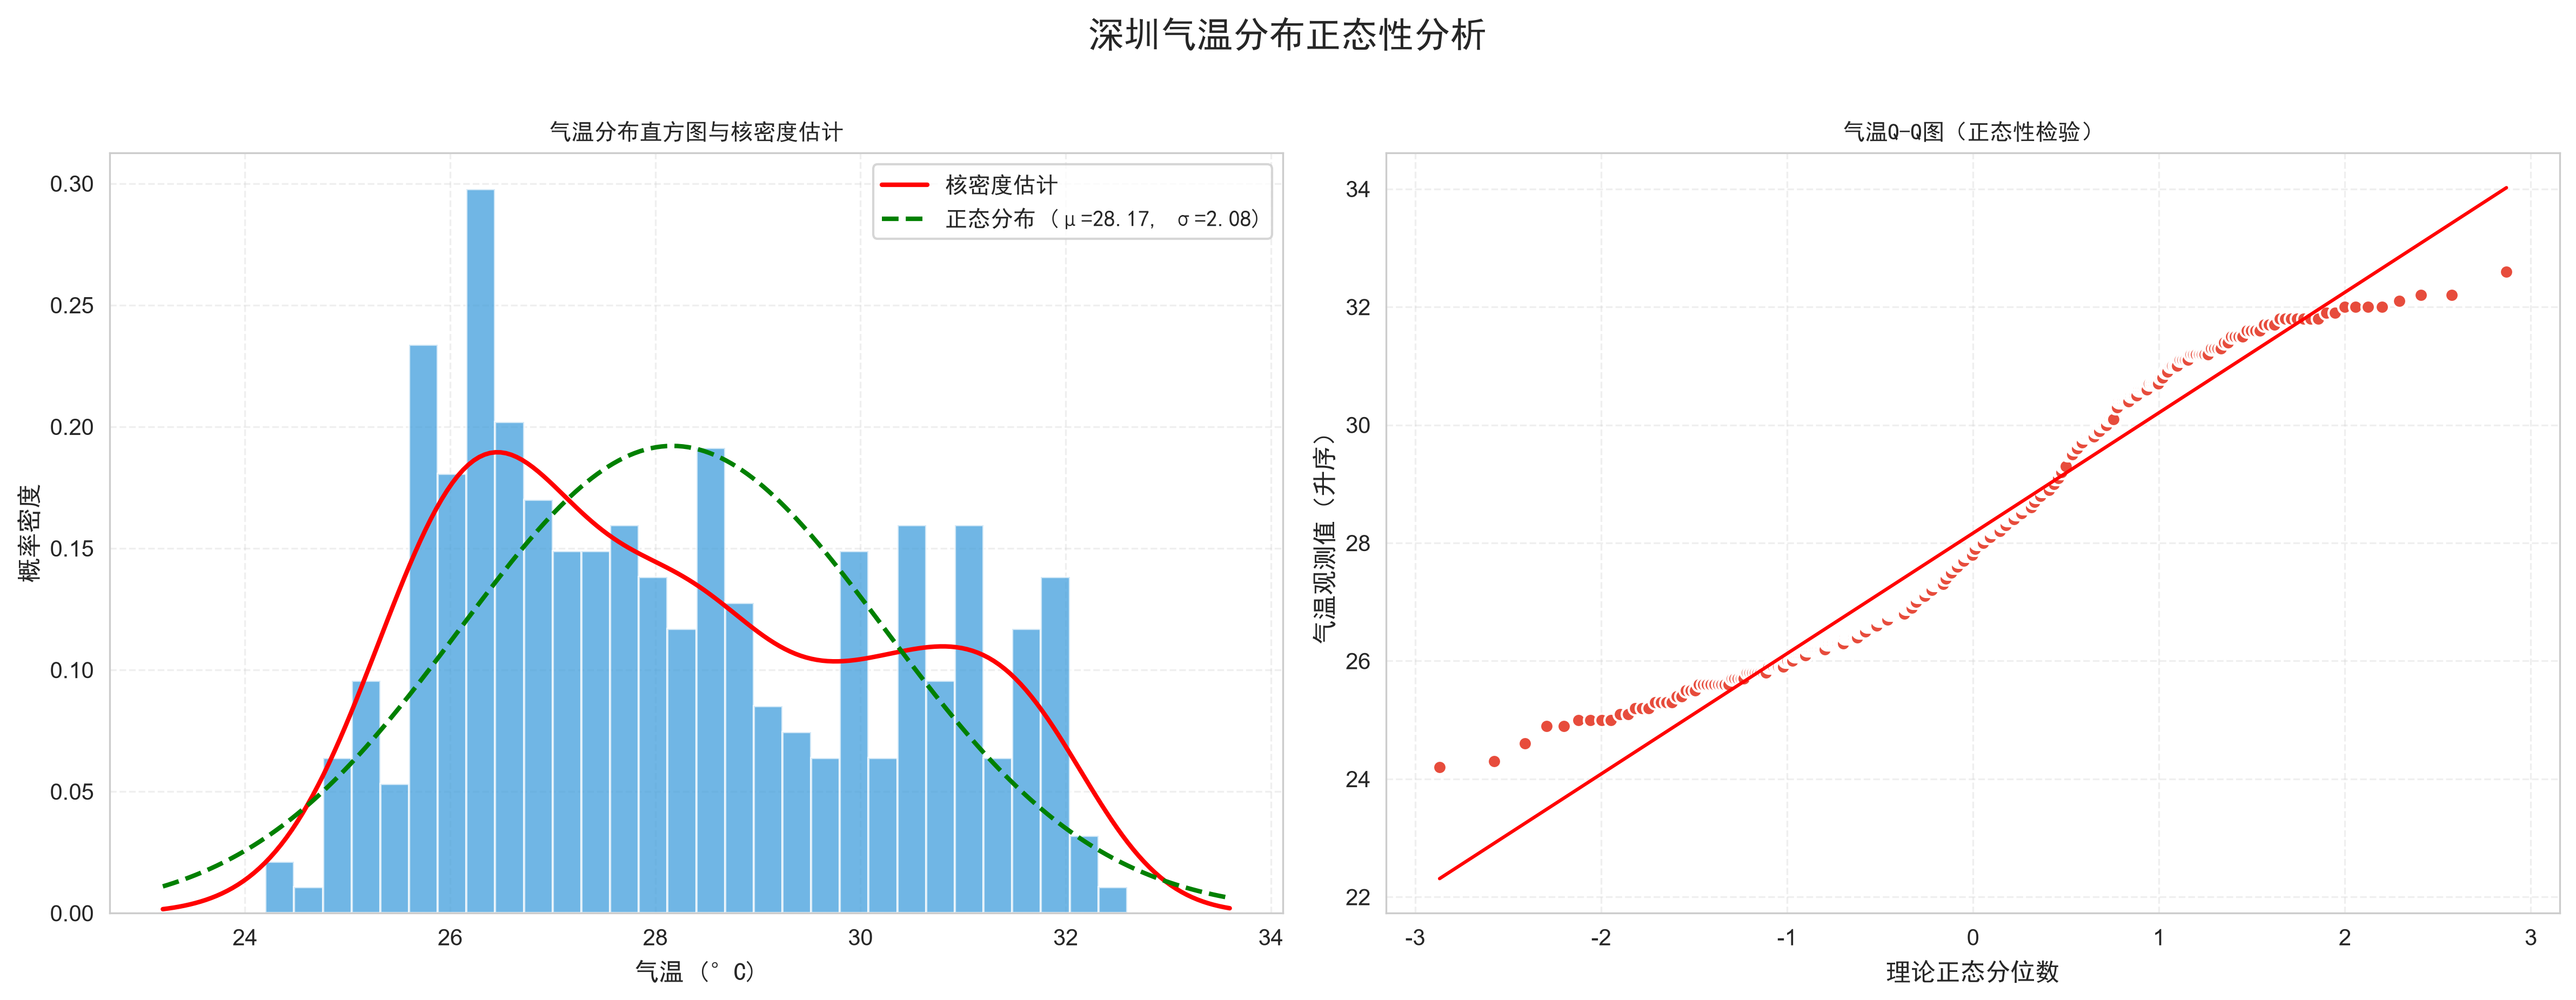
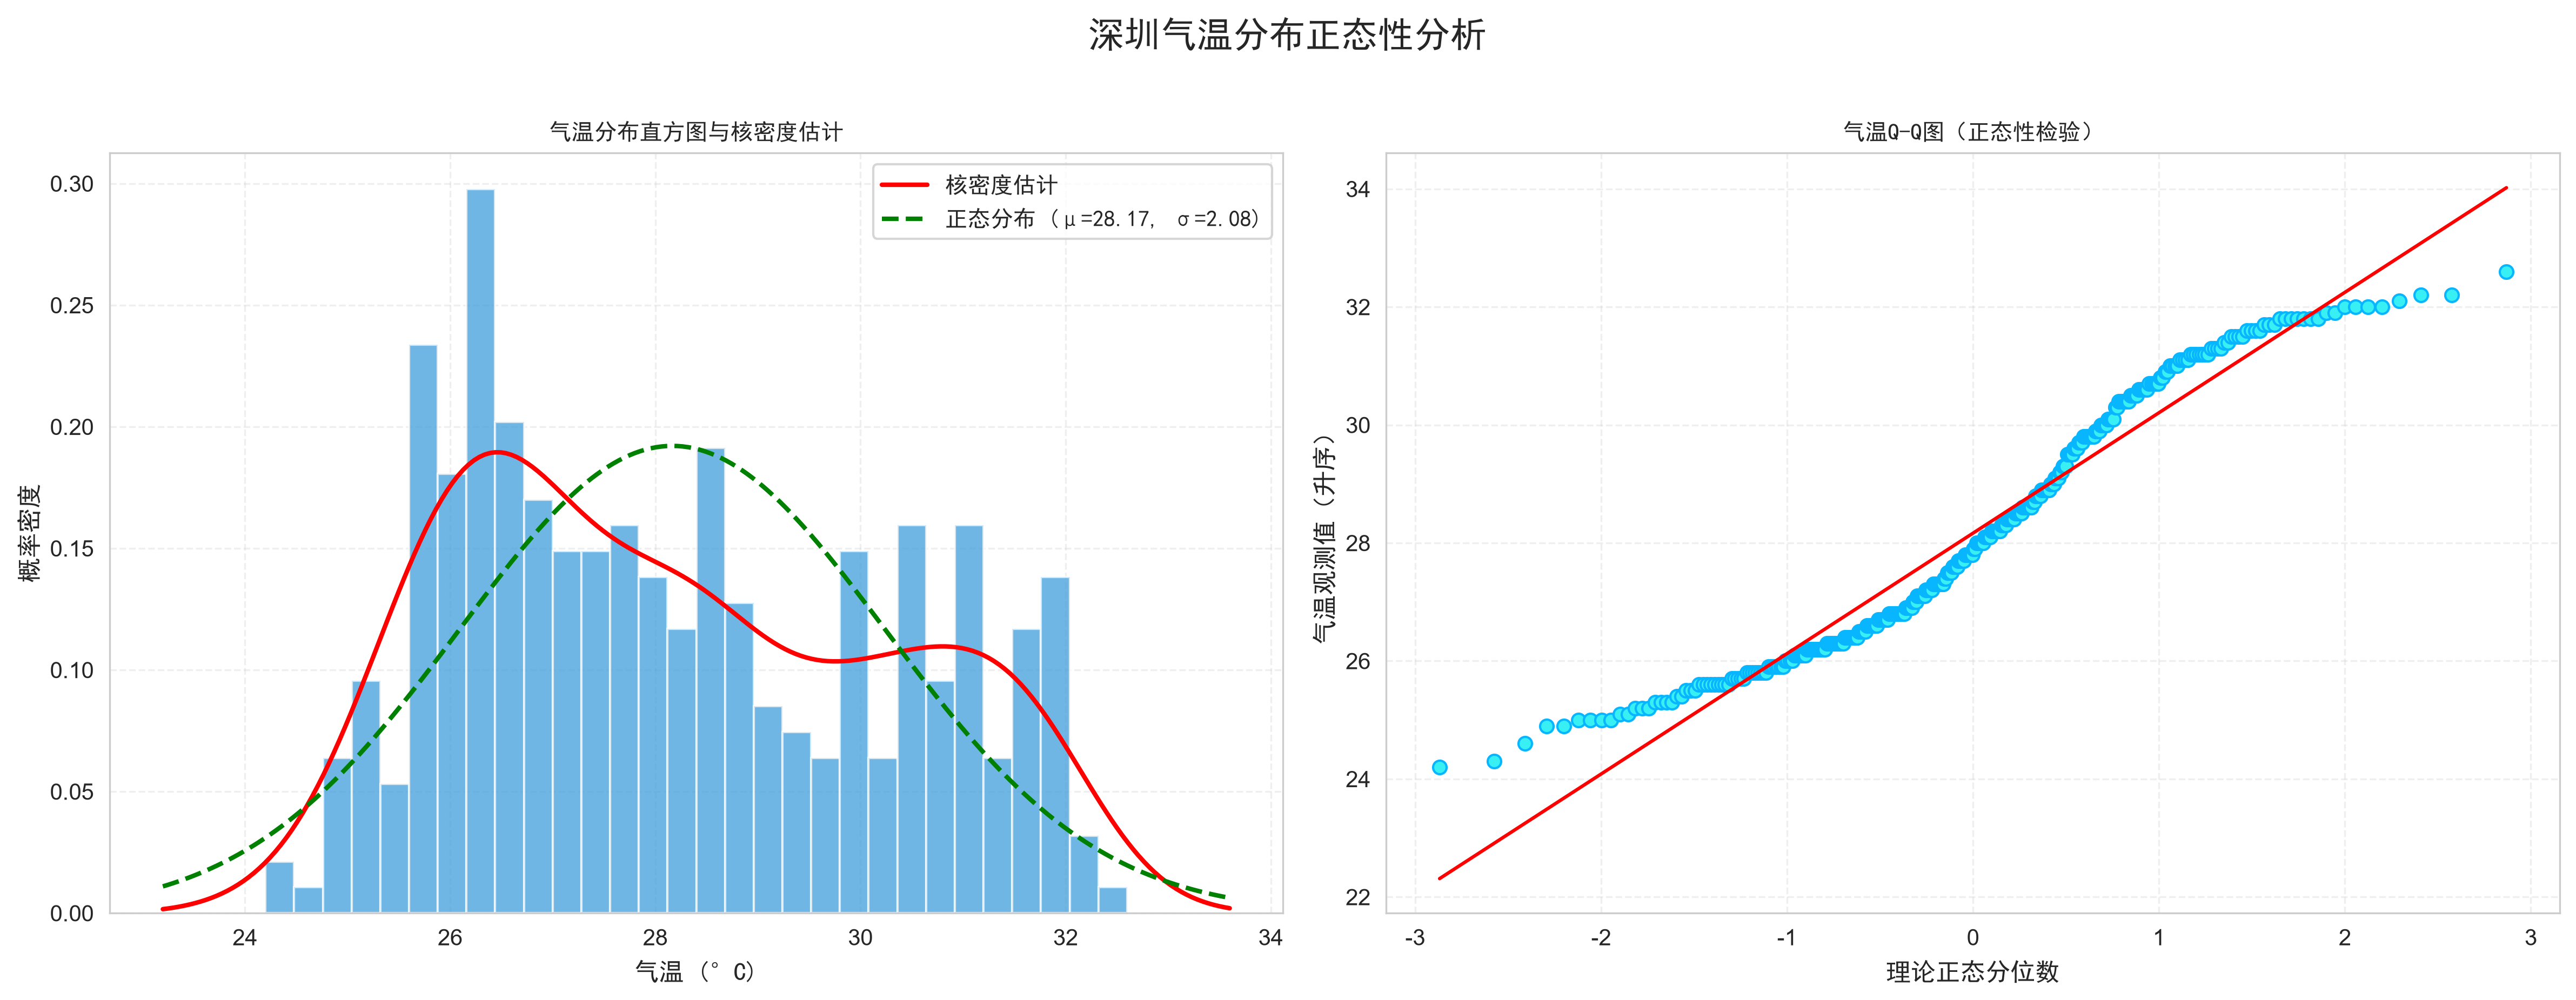
v1.0.0

diff --git a/visualize/cpk_analysis.py b/visualize/cpk_analysis.py
@@ -42,7 +42,6 @@ class CPKAnalyzer:
         # 创建图表目录
         os.makedirs(CHARTS_DIR, exist_ok=True)
         
-        # 设置风格
         sns.set_style("whitegrid")
         
         # CPK结果
@@ -80,13 +79,12 @@ class CPKAnalyzer:
         Returns:
             tuple: (cpk, cp, cpu, cpl, mean, std)
         """
-        mean = np.mean(data)
+        mean = np.mean(data) #numpy输出完整公式
         std = np.std(data, ddof=1)  # 样本标准差
         
-        # 计算CP
+        # 计算CP、CPU和CPL
         cp = (usl - lsl) / (6 * std)
         
-        # 计算CPU和CPL
         cpu = (usl - mean) / (3 * std)
         cpl = (mean - lsl) / (3 * std)
         
@@ -281,7 +279,6 @@ class CPKAnalyzer:
         print("=" * 60)
         
         return cpk_chart, self.cpk_results
-
 
 if __name__ == "__main__":
     analyzer = CPKAnalyzer()

diff --git a/visualize/plot_box.py b/visualize/plot_box.py
@@ -75,7 +75,7 @@ class BoxPlotter:
         data_by_day = [df[df["日期"] == day]["气温"].values for day in days]
         x_labels = [str(d) for d in days]
 
-        # 移除labels参数，只保留合法入参
+        # 移除labels参数
         bp = ax.boxplot(data_by_day, patch_artist=True)
         # 手动设置横轴刻度与文字
         ax.set_xticks(range(1, len(x_labels)+1))
@@ -144,8 +144,8 @@ class BoxPlotter:
         ax2.set_title('气温Q-Q图（正态性检验）', fontsize=14, fontweight='bold', fontproperties=my_font)
         ax2.set_xlabel('理论正态分位数', fontsize=11, fontproperties=my_font)
         ax2.set_ylabel('气温观测值（升序）', fontsize=11, fontproperties=my_font)
-        ax2.get_lines()[0].set_markerfacecolor('#e74c3c')
-        ax2.get_lines()[0].set_markeredgecolor('white')
+        ax2.get_lines()[0].set_markerfacecolor("#38f0f3")
+        ax2.get_lines()[0].set_markeredgecolor("#08b5ff")
         ax2.grid(True, alpha=0.3, linestyle='--')
         
         plt.suptitle('深圳气温分布正态性分析', fontsize=16, fontweight='bold', y=1.02, fontproperties=my_font)

diff --git a/visualize/test_font.py b/visualize/test_font.py
@@ -1,7 +1,7 @@
 import matplotlib.pyplot as plt
 import matplotlib.font_manager as fm
 
-# 强制只使用黑体
+# 强制使用黑体
 plt.rcParams["font.sans-serif"] = ["SimHei"]
 plt.rcParams["axes.unicode_minus"] = False
 
@@ -11,7 +11,7 @@ print("全部字体列表：")
 print(all_fonts)
 print("\n是否包含SimHei：", "SimHei" in all_fonts)
 
-# 画一张测试图验证中文
+# 测试图验证中文文字是否乱码
 fig, ax = plt.subplots()
 ax.set_title("中文测试：气温与体感温度散点图")
 ax.set_xlabel("横轴：气温(℃)")

diff --git a/visualize/plot_line_scatter.py b/visualize/plot_line_scatter.py
@@ -25,7 +25,6 @@ CHARTS_DIR = "../report/charts"
 CLEAN_DATA_FILENAME = "shenzhen_weather_clean.csv"
 DAILY_STATS_FILENAME = "shenzhen_weather_daily.csv"
 
-
 class LineScatterPlotter:
     """折线图与散点图绘制类"""
     
@@ -34,7 +33,6 @@ class LineScatterPlotter:
         # 创建图表目录
         os.makedirs(CHARTS_DIR, exist_ok=True)
         
-        # 设置风格
         sns.set_style("whitegrid")
     
     def log(self, message):
@@ -235,3 +233,4 @@ if __name__ == "__main__":
     print("\n生成的图表:")
     for name, path in figures.items():
         print(f"  {name}: {path}")
+        

diff --git a/crawler/request_config.py b/crawler/request_config.py
@@ -27,7 +27,7 @@ HEADERS = {
     "Connection": "keep-alive"
 }
 
-# 请求超时时间（秒）
+# 请求超时时间
 REQUEST_TIMEOUT = 30
 
 # 需要获取的天气指标

diff --git a/crawler/weather_spider.py b/crawler/weather_spider.py
@@ -196,7 +196,6 @@ class WeatherSpider:
         
         return merged_df
 
-
 if __name__ == "__main__":
     spider = WeatherSpider()
     data = spider.run()

diff --git a/report/深圳天气数据分析报告.md b/report/深圳天气数据分析报告.md
@@ -3,7 +3,7 @@
 **项目名称：** sz-weather-interview-report  
 **分析周期：** 2026年6月20日 - 2026年7月3日（共14天）  
 **分析地点：** 深圳  
-**报告日期：** 2026年7月4日
+**报告日期：** 2026年7月6日
 
 ---
 
@@ -590,7 +590,7 @@ def calculate_daily_stats(self, df):
 - 这是**最能体现深圳春夏季节特点**的指标
 - 梅雨季节+海洋性气候=持续高湿
 - 湿度85%是常态，偶尔还会达到100%（饱和）
-- 这种高湿环境是华南地区夏季最显著的气候特征，也是"南方的冷/热魔法攻击"说法的来源
+- 这种高湿环境是华南地区夏季最显著的气候特征
 
 ### 6.4 生活建议
 